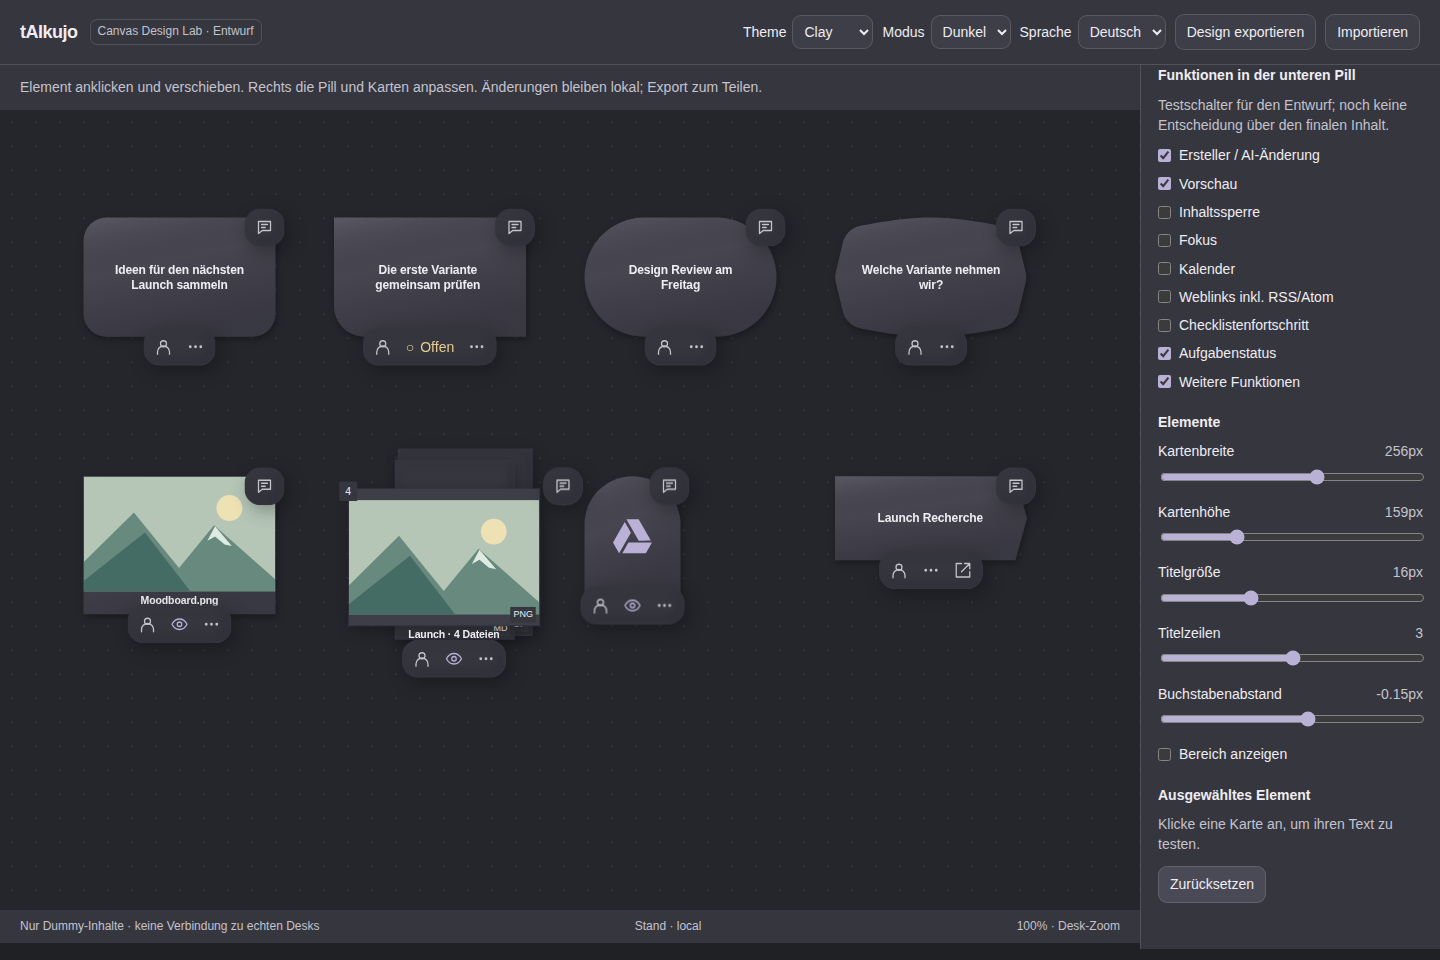
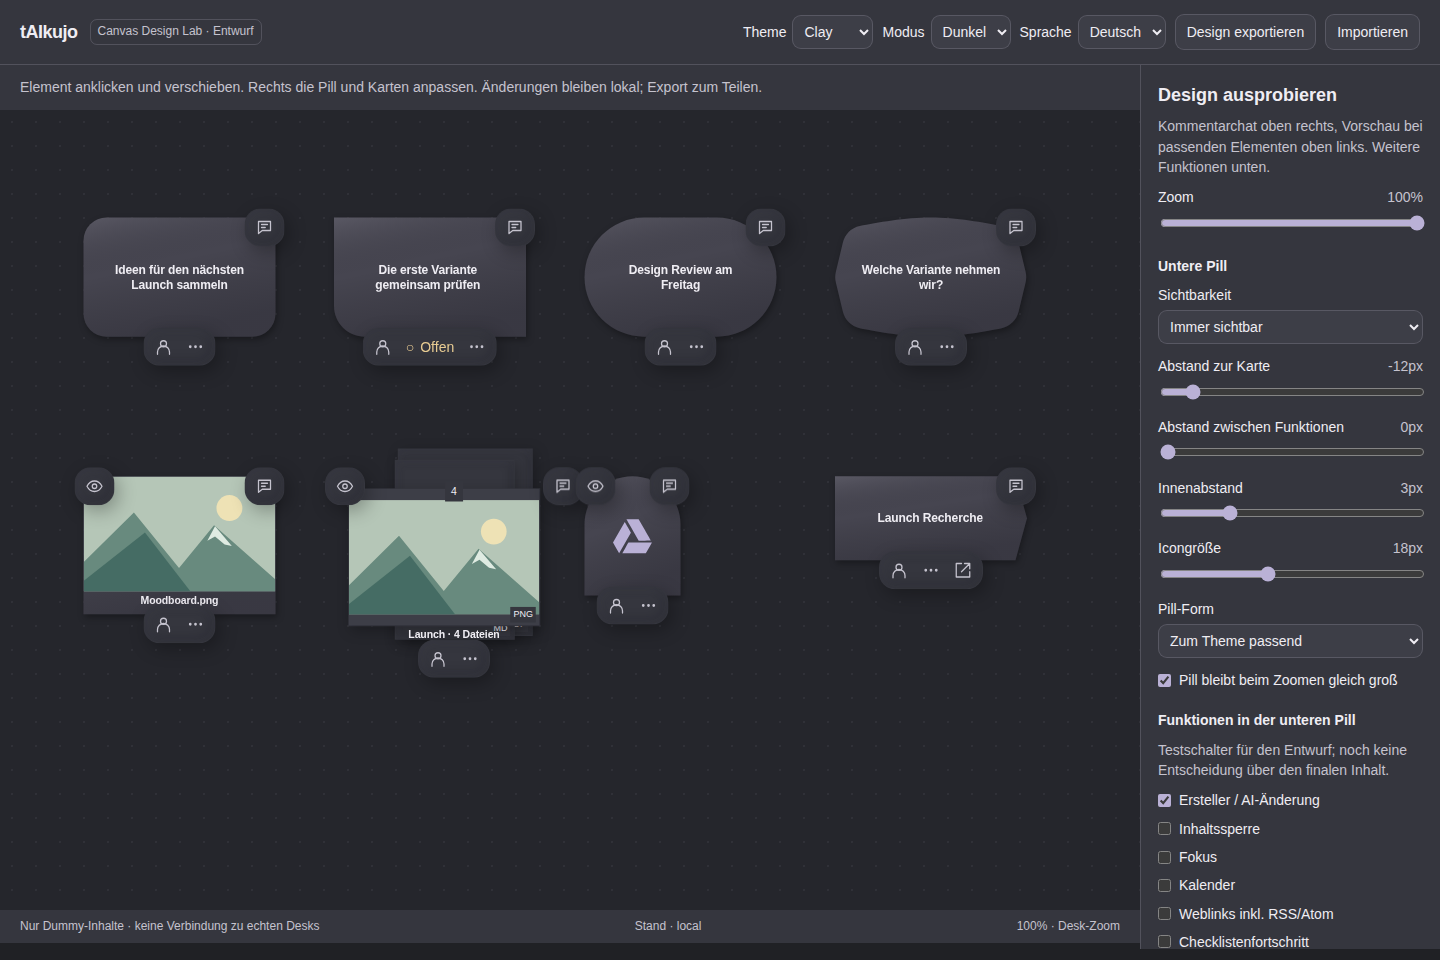
design: mirror preview pill above eligible cards

diff --git a/index.html b/index.html
@@ -1,5 +1,5 @@
 <!doctype html>
-<html lang="de" data-skin="clay" data-theme="dark" data-preview-revision="dad7fcabf575">
+<html lang="de" data-skin="clay" data-theme="dark" data-preview-revision="e2462878d1f8">
 <head>
 <meta charset="utf-8">
 <meta name="viewport" content="width=device-width,initial-scale=1">
@@ -324,8 +324,9 @@ main{display:grid;grid-template-columns:minmax(0,1fr) 300px;min-height:calc(100d
 .viewport{position:relative;flex:1;min-height:500px;max-height:calc(100dvh - 160px);overflow:auto;background-color:var(--canvas);background-image:radial-gradient(var(--canvas-grid) 1px,transparent 1px);background-size:24px 24px;overscroll-behavior:contain}
 .extent{position:relative;margin:34px}.world{position:absolute;left:0;top:0;width:1400px;height:860px;transform-origin:0 0;isolation:isolate}
 .area{position:absolute;inset:20px 20px 40px;border:1px dashed var(--accent);background:color-mix(in srgb,var(--accent) 4%,transparent);border-radius:var(--radius-lg);pointer-events:none}.area-label{position:absolute;top:-30px;left:14px;color:var(--muted)}
-.chat-pill-anchor{position:absolute;right:-12px;top:-12px;transform:scale(var(--pill-scale));transform-origin:100% 0;z-index:6;cursor:default;pointer-events:auto}
-.chat-pill{min-width:36px;justify-content:center}.chat-pill button{color:var(--text)}
+.chat-pill-anchor,.preview-pill-anchor{position:absolute;top:-12px;transform:scale(var(--pill-scale));z-index:6;cursor:default;pointer-events:auto}
+.chat-pill-anchor{right:calc(-1 * var(--corner-offset,12px));transform-origin:100% 0}.preview-pill-anchor{left:calc(-1 * var(--corner-offset,12px));transform-origin:0 0}
+.chat-pill,.preview-pill{min-width:36px;justify-content:center}.chat-pill button,.preview-pill button{color:var(--text)}
 .node{position:absolute;width:var(--card-width);height:var(--card-height);touch-action:none;cursor:grab;user-select:none}.node.dragging{cursor:grabbing;z-index:20}.node.selected{z-index:10}
 .surface{width:100%;height:100%;position:relative;display:flex;align-items:center;justify-content:center;padding:4px 20px;background:transparent;border:0;border-radius:0}
 .node-shape{position:absolute;inset:0;width:100%;height:100%;overflow:visible;pointer-events:none;filter:var(--shadow-node)}
@@ -351,7 +352,7 @@ main{display:grid;grid-template-columns:minmax(0,1fr) 300px;min-height:calc(100d
 .stack-cover svg{width:100%;height:100%;max-height:100%;background:var(--panel-2)}.stack-cover-type{position:absolute;right:5px;bottom:4px;font-size:var(--type-caption-size);background:var(--panel);padding:2px 4px}
 .stack-cover-fallback{padding:18px;white-space:pre-line;text-align:left;color:var(--muted);font-family:var(--font-mono);font-size:14px}
 .node[data-kind="stack"] .file-title{position:relative;z-index:4}.node[data-kind="stack"].selected .stack-cover{border-color:var(--accent)}
-.stack-count{position:absolute;left:7px;top:7px;background:var(--panel);padding:3px 8px;border-radius:0;z-index:5}
+.stack-count{position:absolute;left:50%;top:7px;transform:translateX(-50%);background:var(--panel);padding:3px 8px;border-radius:0;z-index:5}
 
 .pill-anchor{position:absolute;left:50%;top:calc(100% + var(--pill-offset));transform:translateX(-50%) scale(var(--pill-scale));transform-origin:50% 0;z-index:3;cursor:default;max-width:none}
 .pill{display:flex;align-items:center;gap:var(--pill-gap);padding:var(--pill-padding);border:1px solid var(--border-soft);border-radius:var(--pill-radius);background:var(--panel);box-shadow:var(--shadow-menu);white-space:nowrap;min-height:32px}
@@ -411,7 +412,7 @@ dialog{max-width:min(90vw,700px);width:640px;color:var(--text);background:var(--
 const VERSION=1, PREVIEW_REVISION=document.documentElement.dataset.previewRevision||'local', STORAGE='taikujo.canvas-design-lab.v1.'+PREVIEW_REVISION;
 const copy={account:['Account','Account'],scope:['Scope','Scope'],view:['Ansicht','View'],edit:['Bearbeiten','Edit'],scopeLimit:['Nur innerhalb des am Desk zugewiesenen Umfangs. Dummy-Auswahl für diesen Entwurf.','Only within the scope assigned to the Desk. Dummy selection for this draft.'],dummyFile:['Dummy-Dateiinhalt für die Inspector-Vorschau.','Dummy file content for the Inspector preview.'],back:['Zurück','Back'],
 revision:['Stand','Revision'],lab:['Canvas Design Lab · Entwurf','Canvas Design Lab · Draft'],theme:['Theme','Theme'],mode:['Modus','Mode'],dark:['Dunkel','Dark'],light:['Hell','Light'],language:['Sprache','Language'],export:['Design exportieren','Export design'],import:['Importieren','Import'],
-hint:['Element anklicken und verschieben. Rechts die Pill und Karten anpassen. Änderungen bleiben lokal; Export zum Teilen.','Click and drag an element. Adjust the pill and cards on the right. Changes stay local; export to share.'],dummy:['Nur Dummy-Inhalte · keine Verbindung zu echten Desks','Dummy content only · no connection to real Desks'],settings:['Design ausprobieren','Try the design'],local:['Kommentarchat als eigene Pill oben rechts. Weitere Funktionen in der unteren Pill.','Comment chat in its own top-right pill. Other actions in the lower pill.'],zoom:['Zoom','Zoom'],pill:['Untere Pill','Lower pill'],visibility:['Sichtbarkeit','Visibility'],always:['Immer sichtbar','Always visible'],hover:['Bei Hover oder Auswahl','On hover or selection'],offset:['Abstand zur Karte','Distance from card'],gap:['Abstand zwischen Funktionen','Spacing between actions'],padding:['Innenabstand','Padding'],iconSize:['Icongröße','Icon size'],radius:['Pill-Form','Pill shape'],themeRadius:['Zum Theme passend','Match theme'],round:['Rund','Round'],square:['Eckig','Square'],constant:['Pill bleibt beim Zoomen gleich groß','Keep pill size constant while zooming'],functions:['Funktionen in der unteren Pill','Lower pill actions'],functionsHint:['Testschalter für den Entwurf; noch keine Entscheidung über den finalen Inhalt.','Draft toggles; the final pill content is still undecided.'],creator:['Ersteller / AI-Änderung','Creator / AI change'],preview:['Vorschau','Preview'],lock:['Inhaltssperre','Content lock'],focus:['Fokus','Focus'],calendar:['Kalender','Calendar'],chat:['Kommentarchat','Comment chat'],links:['Weblinks inkl. RSS/Atom','Web links incl. RSS/Atom'],checklist:['Checklistenfortschritt','Checklist progress'],status:['Aufgabenstatus','Task status'],menu:['Weitere Funktionen','More actions'],elements:['Elemente','Elements'],width:['Kartenbreite','Card width'],height:['Kartenhöhe','Card height'],titleSize:['Titelgröße','Title size'],titleLines:['Titelzeilen','Title lines'],tracking:['Buchstabenabstand','Letter spacing'],area:['Bereich anzeigen','Show area'],selected:['Ausgewähltes Element','Selected element'],selectHint:['Klicke eine Karte an, um ihren Text zu testen.','Click a card to try different text.'],title:['Titel','Title'],note:['Notiz','Note'],taskState:['Aufgabenstatus','Task status'],open:['Offen','Open'],done:['Erledigt','Done'],reset:['Zurücksetzen','Reset'],close:['Schließen','Close'],saved:['Design als JSON exportiert.','Design exported as JSON.'],loaded:['Design importiert.','Design imported.'],invalid:['Diese Datei ist kein gültiger Design-Export.','This file is not a valid design export.'],importError:['Die Datei konnte nicht gelesen werden.','The file could not be read.'],unsaved:['Lokales Speichern nicht verfügbar. Bitte exportieren.','Local storage unavailable. Please export.'],research:['Recherche','Research'],empty:['Keine Notiz vorhanden.','No note yet.'],demoChat:['Alex: Schau dir bitte diese Variante an.\nAI Worker: Hier könnte später die Antwort stehen.','Alex: Please take a look at this version.\nAI Worker: A reply could appear here later.'],demoLinks:['Webseite · Beispiel-Link\nRSS/Atom · Beispiel-Feed mit Artikelliste\n\nIn diesem Entwurf wird nichts extern abgerufen.','Website · Example link\nRSS/Atom · Example feed with an article list\n\nThis draft makes no external requests.'],demoCalendar:['16. Oktober · Review\n18. Oktober · Freigabe','16 October · Review\n18 October · Approval'],demoMenu:['Eigenschaften, Freigaben und weitere Aktionen gestalten wir im nächsten Schritt.','We will design properties, permissions and other actions in the next step.'],desk:['Desk öffnen','Open Desk'],demoDesk:['Ein Desk-Verweis würde den verlinkten Desk öffnen.','A Desk reference would open the linked Desk.'],stack:['Stapel öffnen','Open stack'],demoStack:['Moodboard.png\nBriefing.md\nEntwurf.pdf\nFoto.heic','Moodboard.png\nBriefing.md\nDraft.pdf\nPhoto.heic']
+hint:['Element anklicken und verschieben. Rechts die Pill und Karten anpassen. Änderungen bleiben lokal; Export zum Teilen.','Click and drag an element. Adjust the pill and cards on the right. Changes stay local; export to share.'],dummy:['Nur Dummy-Inhalte · keine Verbindung zu echten Desks','Dummy content only · no connection to real Desks'],settings:['Design ausprobieren','Try the design'],local:['Kommentarchat oben rechts, Vorschau bei passenden Elementen oben links. Weitere Funktionen unten.','Comment chat at the top right, preview on supported elements at the top left. Other actions below.'],zoom:['Zoom','Zoom'],pill:['Untere Pill','Lower pill'],visibility:['Sichtbarkeit','Visibility'],always:['Immer sichtbar','Always visible'],hover:['Bei Hover oder Auswahl','On hover or selection'],offset:['Abstand zur Karte','Distance from card'],gap:['Abstand zwischen Funktionen','Spacing between actions'],padding:['Innenabstand','Padding'],iconSize:['Icongröße','Icon size'],radius:['Pill-Form','Pill shape'],themeRadius:['Zum Theme passend','Match theme'],round:['Rund','Round'],square:['Eckig','Square'],constant:['Pill bleibt beim Zoomen gleich groß','Keep pill size constant while zooming'],functions:['Funktionen in der unteren Pill','Lower pill actions'],functionsHint:['Testschalter für den Entwurf; noch keine Entscheidung über den finalen Inhalt.','Draft toggles; the final pill content is still undecided.'],creator:['Ersteller / AI-Änderung','Creator / AI change'],preview:['Vorschau','Preview'],lock:['Inhaltssperre','Content lock'],focus:['Fokus','Focus'],calendar:['Kalender','Calendar'],chat:['Kommentarchat','Comment chat'],links:['Weblinks inkl. RSS/Atom','Web links incl. RSS/Atom'],checklist:['Checklistenfortschritt','Checklist progress'],status:['Aufgabenstatus','Task status'],menu:['Weitere Funktionen','More actions'],elements:['Elemente','Elements'],width:['Kartenbreite','Card width'],height:['Kartenhöhe','Card height'],titleSize:['Titelgröße','Title size'],titleLines:['Titelzeilen','Title lines'],tracking:['Buchstabenabstand','Letter spacing'],area:['Bereich anzeigen','Show area'],selected:['Ausgewähltes Element','Selected element'],selectHint:['Klicke eine Karte an, um ihren Text zu testen.','Click a card to try different text.'],title:['Titel','Title'],note:['Notiz','Note'],taskState:['Aufgabenstatus','Task status'],open:['Offen','Open'],done:['Erledigt','Done'],reset:['Zurücksetzen','Reset'],close:['Schließen','Close'],saved:['Design als JSON exportiert.','Design exported as JSON.'],loaded:['Design importiert.','Design imported.'],invalid:['Diese Datei ist kein gültiger Design-Export.','This file is not a valid design export.'],importError:['Die Datei konnte nicht gelesen werden.','The file could not be read.'],unsaved:['Lokales Speichern nicht verfügbar. Bitte exportieren.','Local storage unavailable. Please export.'],research:['Recherche','Research'],empty:['Keine Notiz vorhanden.','No note yet.'],demoChat:['Alex: Schau dir bitte diese Variante an.\nAI Worker: Hier könnte später die Antwort stehen.','Alex: Please take a look at this version.\nAI Worker: A reply could appear here later.'],demoLinks:['Webseite · Beispiel-Link\nRSS/Atom · Beispiel-Feed mit Artikelliste\n\nIn diesem Entwurf wird nichts extern abgerufen.','Website · Example link\nRSS/Atom · Example feed with an article list\n\nThis draft makes no external requests.'],demoCalendar:['16. Oktober · Review\n18. Oktober · Freigabe','16 October · Review\n18 October · Approval'],demoMenu:['Eigenschaften, Freigaben und weitere Aktionen gestalten wir im nächsten Schritt.','We will design properties, permissions and other actions in the next step.'],desk:['Desk öffnen','Open Desk'],demoDesk:['Ein Desk-Verweis würde den verlinkten Desk öffnen.','A Desk reference would open the linked Desk.'],stack:['Stapel öffnen','Open stack'],demoStack:['Moodboard.png\nBriefing.md\nEntwurf.pdf\nFoto.heic','Moodboard.png\nBriefing.md\nDraft.pdf\nPhoto.heic']
 };
 // Original production geometry, copied from js/shapes.js; no CSS approximations.
 const SHAPE_GEOMETRY = {
@@ -444,11 +445,11 @@ function cardShape(card){
 }
 
 const specs={offset:[-16,24,1,'px'],gap:[0,14,1,'px'],padding:[0,12,1,'px'],iconSize:[14,24,1,'px'],width:[160,320,1,'px'],height:[120,260,1,'px'],titleSize:[14,20,1,'px'],titleLines:[1,5,1,''],tracking:[-.6,.2,.05,'px']};
-const actions=['creator','preview','lock','focus','calendar','links','checklist','status','menu'];
+const actions=['creator','lock','focus','calendar','links','checklist','status','menu'];
 const TUNNEL_SCOPES=['Launch-Team','Launch-Team/Briefing','Launch-Team/Entwürfe'];
 const kinds=['note','task','event','decision','file','stack','tunnel','desk'];
 const icons={creator:'user',preview:'eye',lock:'lock',focus:'focus',calendar:'calendar',chat:'chat',links:'link',checklist:'list',menu:'more',desk:'open'};
-function defaults(){return {version:VERSION,skin:'clay',mode:'dark',language:'de',zoom:100,visibility:'always',radius:'theme',constant:true,area:false,offset:-12,gap:0,padding:3,iconSize:18,width:256,height:159,titleSize:16,titleLines:3,tracking:-.15,actions:['creator','preview','status','menu'],cards:[
+function defaults(){return {version:VERSION,skin:'clay',mode:'dark',language:'de',zoom:100,visibility:'always',radius:'theme',constant:true,area:false,offset:-12,gap:0,padding:3,iconSize:18,width:256,height:159,titleSize:16,titleLines:3,tracking:-.15,actions:['creator','status','menu'],cards:[
 {id:'note',kind:'note',title:'Ideen für den nächsten Launch sammeln',note:'Ein normales Element mit Notiz. Mehr Platz für den Titel, keine Leisten auf der Karte.',x:66,y:98},
 {id:'task',kind:'task',title:'Die erste Variante gemeinsam prüfen',note:'Eine Aufgabe mit unabhängigem Status und Checkliste.',status:'open',x:400,y:98},
 {id:'event',kind:'event',title:'Design Review am Freitag',note:'Ein Event als eigene Form.',x:734,y:98},
@@ -465,7 +466,7 @@ function validate(raw){
  }
  for(const [key,[min,max]] of Object.entries({...specs,zoom:[1,100]})){if(typeof raw[key]!=='number'||!Number.isFinite(raw[key])||raw[key]<min||raw[key]>max)throw Error(key);d[key]=raw[key];}
  for(const key of ['constant','area']){if(typeof raw[key]!=='boolean')throw Error(key);d[key]=raw[key];}
- if(!Array.isArray(raw.actions)||raw.actions.length>actions.length+1||new Set(raw.actions).size!==raw.actions.length||raw.actions.some(key=>!actions.includes(key)&&key!=='chat'))throw Error('actions');d.actions=raw.actions.filter(key=>key!=='chat');
+ if(!Array.isArray(raw.actions)||raw.actions.length>actions.length+2||new Set(raw.actions).size!==raw.actions.length||raw.actions.some(key=>!actions.includes(key)&&!['chat','preview'].includes(key)))throw Error('actions');d.actions=raw.actions.filter(key=>!['chat','preview'].includes(key));
  d.cards=d.cards.map((base,index)=>{const c=raw.cards[index];if(!c||c.id!==base.id||c.kind!==base.kind||!kinds.includes(c.kind)||typeof c.title!=='string'||c.title.length>160||typeof c.note!=='string'||c.note.length>2000)throw Error('card');for(const key of ['x','y'])if(!Number.isFinite(c[key])||c[key]<0||c[key]>1400)throw Error(key);if(base.kind==='task'&&!['open','done'].includes(c.status))throw Error('status');if(base.kind==='tunnel'&&((c.account!==undefined&&(typeof c.account!=='string'||c.account.length>120))||(c.scope!==undefined&&!TUNNEL_SCOPES.includes(c.scope))))throw Error('tunnel');return {...base,title:c.title,note:c.note,x:c.x,y:c.y,...(base.kind==='task'?{status:c.status}:{}),...(base.kind==='tunnel'?{account:c.account??base.account,scope:c.scope??base.scope}:{})};});return d;
 }
 let state=defaults(),selected=null,tunnelTab='view',tunnelFolder=null,storageAvailable=true;
@@ -493,19 +494,27 @@ function apply(){
  $('revision-readout').textContent=t('revision')+' · '+PREVIEW_REVISION;$('zoom-value').textContent=state.zoom+'%';$('zoom-readout').textContent=state.zoom+'% · '+(state.language==='de'?'Desk-Zoom':'Desk zoom');
  renderCards();selectionControls();
 }
-function chatPill(card){
- const anchor=document.createElement('div');anchor.className='chat-pill-anchor';
- const pill=document.createElement('div');pill.className='pill chat-pill';pill.setAttribute('aria-label',t('chat'));
- const button=document.createElement('button');button.type='button';button.dataset.action='chat';button.setAttribute('aria-label',t('chat'));button.innerHTML=svg('chat');
- const tooltip=document.createElement('span');tooltip.className='tooltip';tooltip.textContent=t('chat');button.append(tooltip);button.addEventListener('click',()=>action(card,'chat'));
+function cornerPill(card,key){
+ const anchor=document.createElement('div');anchor.className=key+'-pill-anchor';
+ const pill=document.createElement('div');pill.className='pill '+key+'-pill';pill.setAttribute('aria-label',t(key));
+ const button=document.createElement('button');button.type='button';button.dataset.action=key;button.setAttribute('aria-label',t(key));button.innerHTML=svg(icons[key]);
+ const tooltip=document.createElement('span');tooltip.className='tooltip';tooltip.textContent=t(key);button.append(tooltip);button.addEventListener('click',()=>action(card,key));
  pill.append(button);anchor.append(pill);return anchor;
 }
+function chatPill(card){return cornerPill(card,'chat');}
+
 function renderCards(){
  const world=$('world');world.replaceChildren();
  if(state.area){const area=document.createElement('div');area.className='area';const label=document.createElement('span');label.className='area-label';label.textContent=t('research');area.append(label,chatPill({id:'area',kind:'area',title:t('research'),note:''}));world.append(area);}
  for(const card of state.cards){
   const node=document.createElement('article');node.className='node'+(selected===card.id?' selected':'');node.dataset.id=card.id;node.dataset.kind=card.kind;node.dataset.pillVisibility=state.visibility;node.tabIndex=0;node.setAttribute('aria-label',card.title);node.style.left=card.x+'px';node.style.top=card.y+'px';
   const size=cardSize(card);node.style.width=size.width+'px';node.style.height=size.height+'px';node.insertAdjacentHTML('beforeend',cardShape(card));
+  if(['file','stack','tunnel'].includes(card.kind)){
+   const camera=.35+(state.zoom-1)/99*.4;
+   const pillWidth=Math.max(36,Math.max(30,state.iconSize+14)+state.padding*2+2)*(state.constant?1:camera);
+   // Keep the mirrored controls separate on narrow cards and at low zoom.
+   node.style.setProperty('--corner-offset',Math.max(12,(2*pillWidth+4-size.width*camera)/(2*camera))+'px');
+  }
   const surface=document.createElement('div');surface.className='surface';
   const title=document.createElement('div');title.className='title';title.textContent=card.title;title.title=card.title;
   if(['file','stack'].includes(card.kind)){
@@ -526,14 +535,14 @@ function renderCards(){
   }else surface.append(title);
   node.append(surface);const anchor=document.createElement('div');anchor.className='pill-anchor';const pill=document.createElement('div');pill.className='pill';pill.setAttribute('aria-label',t('pill'));
   for(const key of state.actions){
-   if(key==='status'&&card.kind!=='task'||key==='preview'&&!['file','stack','tunnel'].includes(card.kind))continue;
+   if(key==='status'&&card.kind!=='task')continue;
    const btn=document.createElement('button');btn.type='button';btn.dataset.action=key;btn.setAttribute('aria-label',t(key));btn.className=key;
    if(key==='status'){btn.classList.toggle('done',card.status==='done');btn.innerHTML=card.status==='done'?svg('check'):'<span aria-hidden="true">○</span>';const text=document.createElement('span');text.textContent=t(card.status);btn.append(text);}
    else btn.innerHTML=svg(icons[key]);
    const tooltip=document.createElement('span');tooltip.className='tooltip';tooltip.textContent=t(key);btn.append(tooltip);btn.addEventListener('click',()=>action(card,key));pill.append(btn);
   }
   if(card.kind==='desk'){const btn=document.createElement('button');btn.type='button';btn.setAttribute('aria-label',t('desk'));btn.innerHTML=svg('open');btn.onclick=()=>action(card,'desk');pill.append(btn);}
-  if(pill.children.length){anchor.append(pill);node.append(anchor);}node.append(chatPill(card));world.append(node);
+  if(pill.children.length){anchor.append(pill);node.append(anchor);}node.append(chatPill(card));if(['file','stack','tunnel'].includes(card.kind))node.append(cornerPill(card,'preview'));world.append(node);
   node.addEventListener('dblclick',event=>{if(card.kind==='tunnel'&&!event.target.closest('button')){event.preventDefault();showTunnelInspector(card);}});node.addEventListener('pointerdown',event=>startDrag(event,node,card));node.addEventListener('keydown',event=>{if(event.target!==node)return;if(event.key==='Enter'||event.key===' '){event.preventDefault();choose(card.id);}});
  }
 }

diff --git a/README.md b/README.md
@@ -3,7 +3,8 @@
 **[Open the live playground](https://mbd02.github.io/taikujo-canvas-design/)**
 
 A standalone design draft with dummy elements, a separate top-right comment
-chat pill on every card and a lower pill for the remaining actions.
+chat pill on every card, a mirrored top-left preview pill on files/stacks/Tunnels,
+and a lower pill for the remaining actions. Corner controls stay separate at low zoom.
 Original app SVG outlines, including the task contour, rounded decision,
 capsule event, flat Desk ribbon and square files. Proposed Tunnel shape: a true
 semicircular arch over straight walls and a flat base; no fake depth yet. Files/covers are
